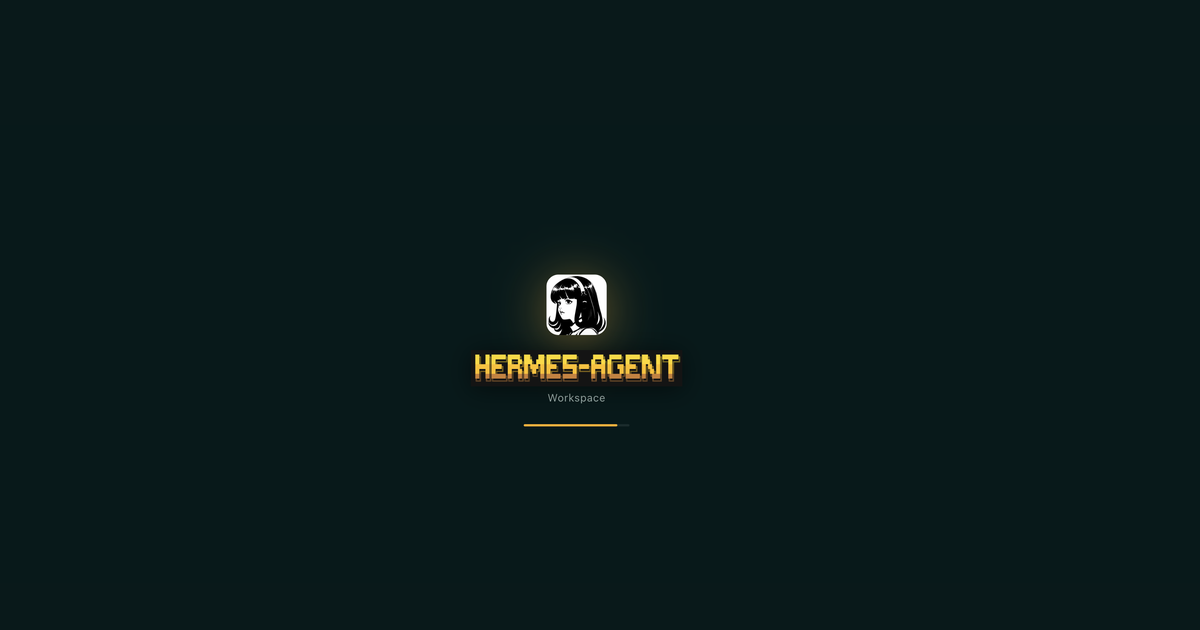
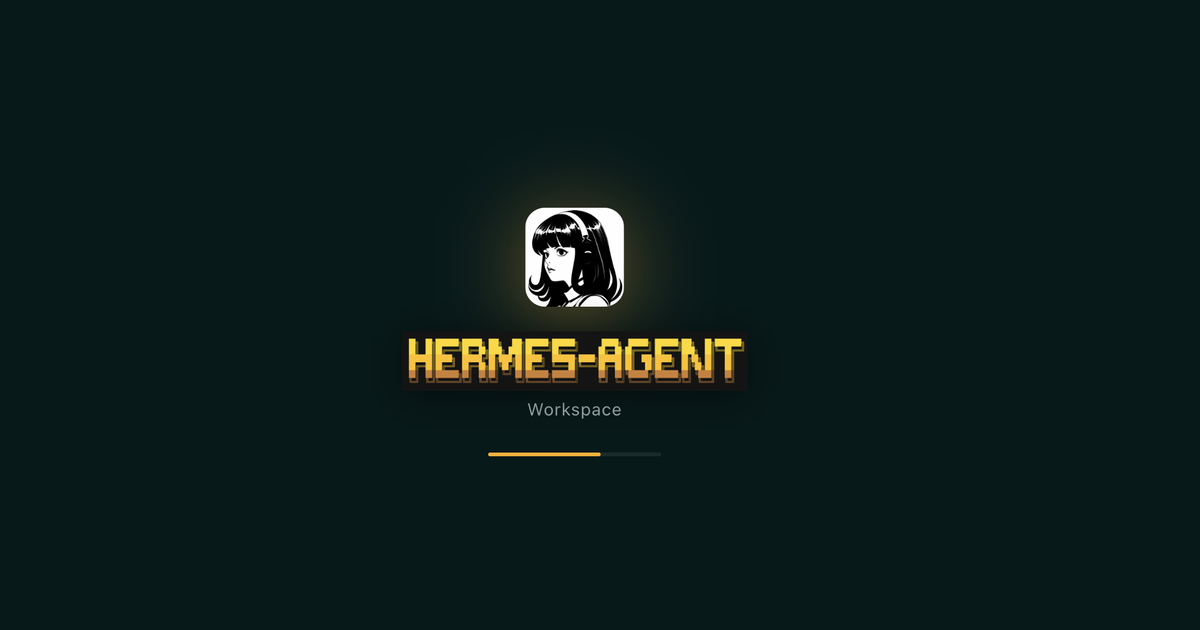
fix(landing): clearer nav copy + new zoomed OG image
- Nav: 'Catalog' → 'Features', 'Screens' → 'Screenshots'
- Section eyebrow: 'Plates' → 'Screens', 'Plate NN' → 'Screen NN'
- Features section eyebrow: 'Catalog' → 'Features'
- OG image: regenerated from new 'Zoomed in social preview' source
  (HERMES-AGENT pixel wordmark + Workspace + loading bar, sharper)
- Cache-bust og-image.png?v=5

Changed region(s): [[0.3392, 0.3016, 0.6167, 0.7238]]

diff --git a/app/components/screenshots-section.tsx b/app/components/screenshots-section.tsx
@@ -38,7 +38,7 @@ export function ScreenshotsSection() {
   return (
     <section id="screenshots" className="py-20 md:py-28">
       <Reveal className="mx-auto max-w-2xl text-center">
-        <p className="micro-label">Plates</p>
+        <p className="micro-label">Screens</p>
         <h2 className="editorial-display mt-4 text-4xl text-[var(--foreground)] md:text-5xl">
           Section by section.
         </h2>
@@ -52,7 +52,7 @@ export function ScreenshotsSection() {
           <Reveal key={shot.title} delay={index * 70}>
             <figure className="bg-[var(--background)]">
               <div className="border-b border-[var(--border-subtle)] px-6 py-4">
-                <p className="micro-label">{`Plate ${String(index + 1).padStart(2, "0")}`}</p>
+                <p className="micro-label">{`Screen ${String(index + 1).padStart(2, "0")}`}</p>
                 <p className="mt-1 text-base font-semibold tracking-tight text-[var(--foreground)]">
                   {shot.title}
                 </p>

diff --git a/app/layout.tsx b/app/layout.tsx
@@ -17,14 +17,14 @@ export const metadata: Metadata = {
     siteName: "Hermes Workspace",
     locale: "en_US",
     type: "website",
-    images: [{ url: "/og-image.png?v=4", width: 1200, height: 630, alt: "Hermes Workspace" }],
+    images: [{ url: "/og-image.png?v=5", width: 1200, height: 630, alt: "Hermes Workspace" }],
   },
   twitter: {
     card: "summary_large_image",
     title: "Hermes Workspace · Your AI agent’s command center",
     description:
       "Chat, memory, skills, terminal, and files — one interface for everything your agent does.",
-    images: ["/og-image.png?v=4"],
+    images: ["/og-image.png?v=5"],
   },
   icons: {
     icon: "/favicon.ico",

diff --git a/app/components/landing-nav.tsx b/app/components/landing-nav.tsx
@@ -5,9 +5,9 @@ import { Brand } from "./brand";
 import { SiteThemeToggle } from "./site-theme-toggle";
 
 const navLinks = [
-  { href: "#features", label: "Catalog" },
+  { href: "#features", label: "Features" },
   { href: "#setup", label: "Setup" },
-  { href: "#screenshots", label: "Screens" },
+  { href: "#screenshots", label: "Screenshots" },
   {
     href: "https://github.com/outsourc-e/hermes-workspace",
     label: "GitHub",

diff --git a/app/components/features-section.tsx b/app/components/features-section.tsx
@@ -57,7 +57,7 @@ export function FeaturesSection() {
   return (
     <section id="features" className="py-20 md:py-28">
       <Reveal className="mx-auto max-w-2xl text-center">
-        <p className="micro-label">Catalog</p>
+        <p className="micro-label">Features</p>
         <h2 className="editorial-display mt-4 text-4xl text-[var(--foreground)] md:text-5xl">
           Built for agents that do real work.
         </h2>
